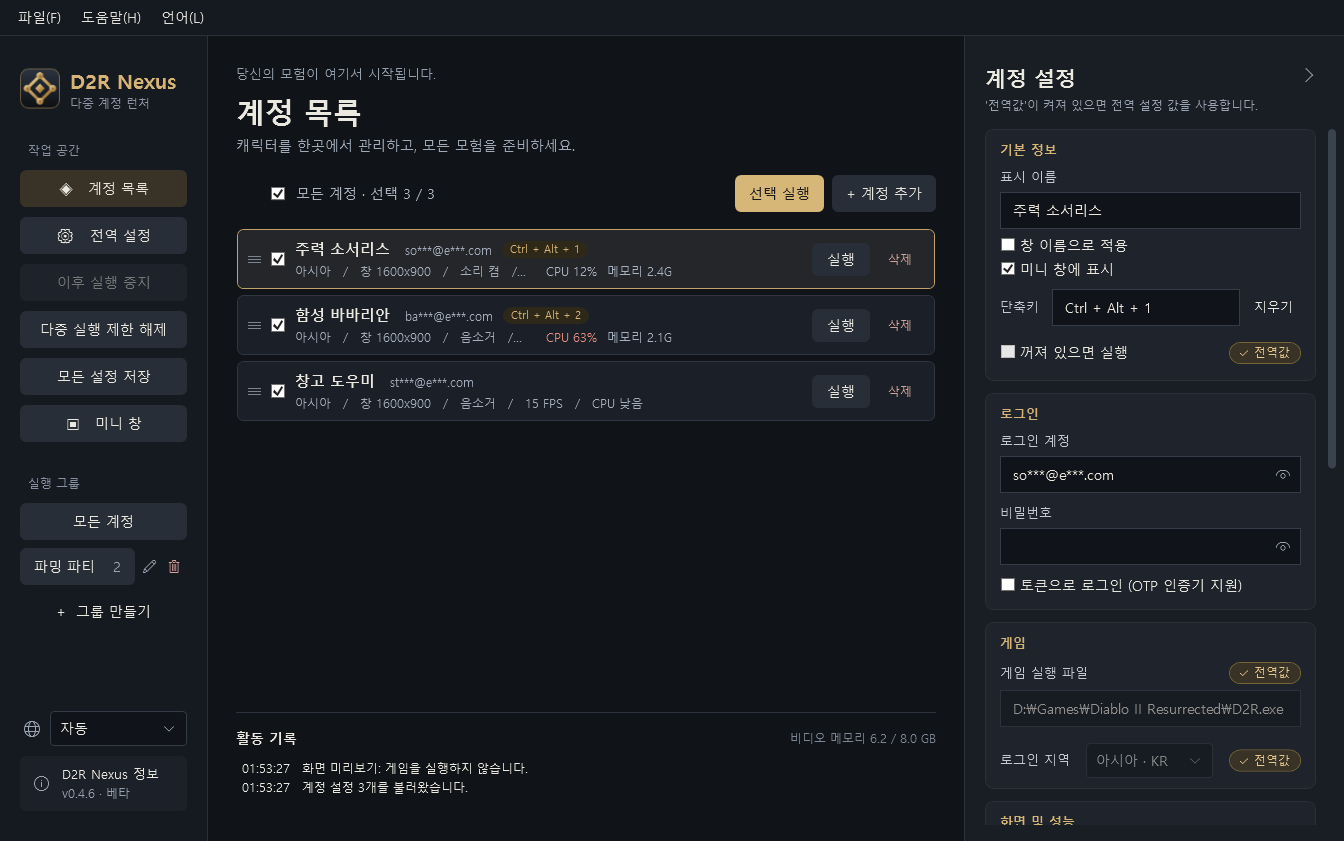
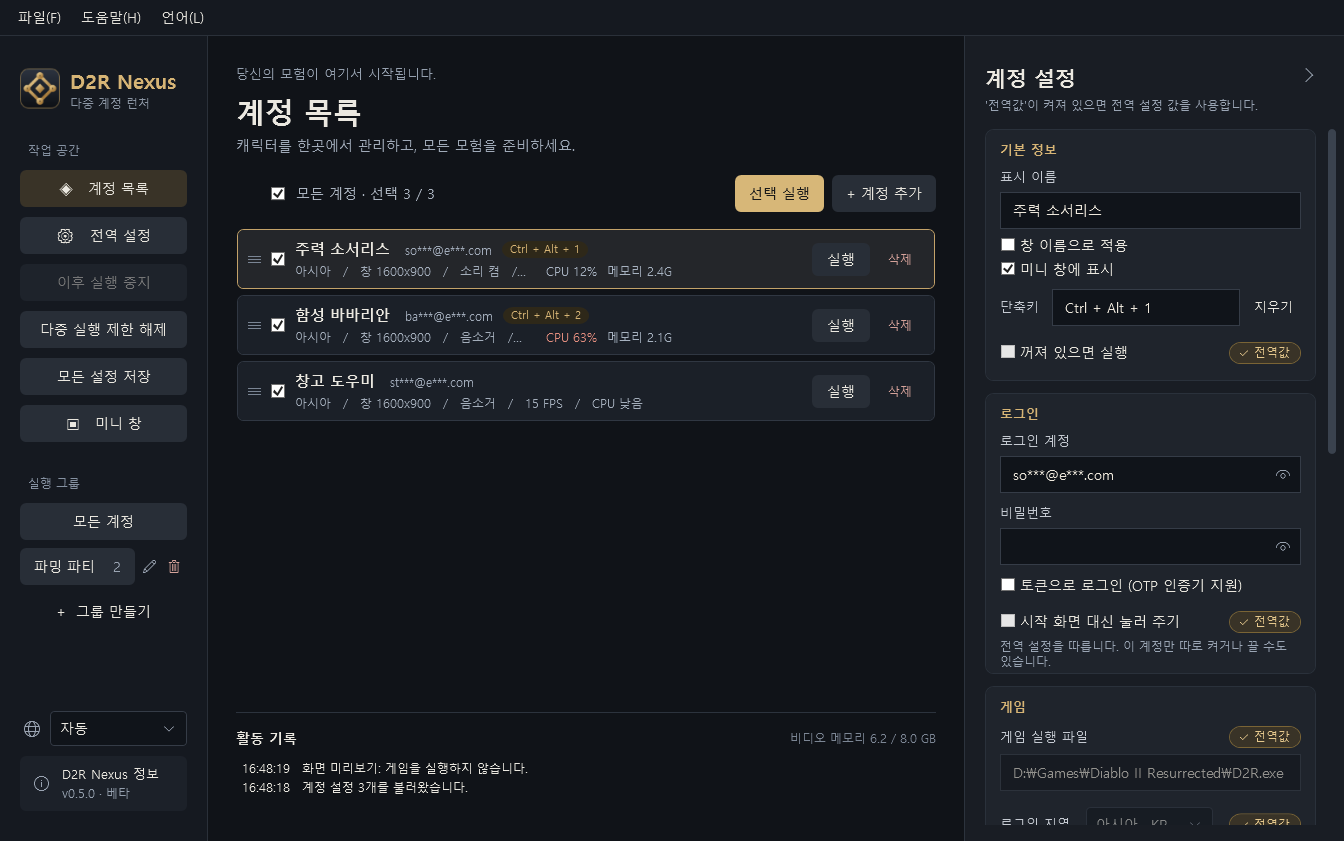
Add files via upload

diff --git a/README.en.md b/README.en.md
@@ -19,6 +19,26 @@ Check the accounts you want to play and click "Launch selected". Nexus opens eac
 
 > Nexus is currently a beta. Some situations are still being tested on real setups.
 
+<h2 align="center">⚠ From v0.5.0, Nexus can send a key press to the game</h2>
+
+<p align="center"><b>Off by default. You have to turn it on yourself, read what it does and agree to it.<br>
+Once it is on, the program is operating the game for you, and the risk to your account is yours.</b></p>
+
+<p align="center"><b>Each account also decides for itself.<br>
+To keep your main account or a mule out of this entirely, leave it off for that account.</b></p>
+
+> [!IMPORTANT]
+> **What changed in v0.5.0: Nexus can now press past the game's title screen for you.**
+>
+> **Up to v0.4.6**, Nexus never sent any key to the game, and said so. **From v0.5.0** there is one feature that does: it presses "Press any key to continue" for you.
+>
+> - The feature is **off by default**. Leave it off and Nexus behaves exactly as it did before, sending no keys at all.
+> - To use it you have to turn it on yourself under "Global settings → Help with signing in". You are first shown what it does, and the agree button only becomes available after a five-second countdown.
+> - Once it is on, the program is operating the game for you. **The risk to your account is yours**, so weigh it before you decide.
+> - **Each account has its own switch too.** To keep your main account or a mule out of it entirely, turn off "Use the global setting" on that account and leave it off. Turning it on for one account asks you again.
+>
+> What it does, how far it goes and when it stops are in the [security notes](SECURITY.en.md).
+
 ## ✨ Features
 
 **Multi-launch and login**
@@ -98,9 +118,13 @@ The accounts whose games are open are moved to the top of the list, so with many
 
 ## 🛡 Not a cheat
 
-Nexus is only a management tool that opens the game for you. **It doesn't inject code, doesn't read or write game memory, doesn't modify game files, doesn't intercept network traffic, doesn't automate the game, doesn't simulate keyboard or mouse input, doesn't bypass verification, and doesn't upload your data.** Every method it uses, the permissions it needs, and everything it connects to are listed in the [security notes](SECURITY.en.md).
+Nexus is only a management tool that opens the game for you. **It doesn't inject code, doesn't read or write game memory, doesn't modify game files, doesn't intercept network traffic, doesn't bot, farm or loot for you, doesn't bypass verification, and doesn't upload your data.** Every method it uses, the permissions it needs, and everything it connects to are listed in the [security notes](SECURITY.en.md).
 
-Whether multi-launching and third-party tools comply with the rules is ultimately determined by Blizzard's terms of use and rulings. Nexus cannot guarantee that your accounts will not be penalized in any way.
+There is one exception, **added in v0.5.0 and off by default**: **pressing past the title screen** (up to v0.4.6 the feature did not exist and Nexus sent no keys at all). A game signed in with a token stops at "Press any key to continue" until someone presses a key. With this turned on, Nexus sends a single space bar to the game window it opened itself, and stops as soon as the sign-in is finished. That is the program operating the game for you, so before it can be turned on you are shown exactly what it does, and the agree button only becomes available after a five-second countdown; the time you agreed and the text you agreed to stay on your own computer and are not uploaded anywhere. With it off, Nexus sends no keys at all, and it never records what you press.
+
+**The switch is also per account.** Even with the global setting on, an individual account can be left off: keep your main account and your mules out of this, and if anything does go wrong, the accounts that never used it are not involved. Turning it on for a single account asks you to agree again.
+
+Whether multi-launching and third-party tools comply with the rules is ultimately determined by Blizzard's terms of use and rulings. Nexus cannot guarantee that your accounts will not be penalized in any way, and turning the key press on means taking that risk on knowingly, so decide for yourself first.
 
 ## ❓ FAQ
 
@@ -150,6 +174,10 @@ In the account settings, next to "Login token", click "Clear" and then "Get toke
 That is how the game behaves: when it starts with a token it waits on its title screen, and it only begins signing in once you **press a key in that window**. Accounts that sign in with an account and password do it by themselves.
 
 With several token accounts this step matters even more: Windows only holds one token at a time, so **the next account can only start after the previous one has signed in**. Until you press that key the accounts behind it keep waiting (the activity log says what they are waiting for and for how long). Press a key in each token account's window as it appears and the rest follow on.
+
+"Help with signing in" in the global settings makes this easier: **bringing a token account's game window to the front** is on by default, so you never have to go looking for the window. If you would rather not press the key at all, the same card has **press past the title screen for me**, and Nexus does it for you. That is the program operating the game, so it is off by default, and before it can be turned on you are shown exactly what it does and asked to agree. Weigh the risk for yourself.
+
+If only some of your accounts use it, Nexus **starts the token accounts without the key press last**, so the others do not sit behind one that is waiting for you; the cost is that such an account opens last. The activity log says so when it happens.
 </details>
 
 <details>

diff --git a/SECURITY.ko.md b/SECURITY.ko.md
@@ -4,6 +4,23 @@
 
 이 페이지에서는 D2R Nexus에 어떤 권한이 필요한지, 어떤 데이터를 다루는지, 어디에 연결하는지, 그리고 백신 프로그램이나 Windows가 경고를 표시할 수 있는 이유를 설명합니다.
 
+<h2 align="center">⚠ v0.5.0부터 Nexus가 게임에 키 입력을 보낼 수 있습니다</h2>
+
+<p align="center"><b>기본값은 꺼짐입니다. 직접 켜고 안내를 읽은 뒤 동의해야 작동합니다.<br>
+켜면 프로그램이 게임을 대신 조작하는 것이며, 계정에 대한 위험은 본인이 감수합니다.</b></p>
+
+<p align="center"><b>계정마다 따로 정할 수도 있습니다.<br>
+주 계정이나 창고 계정을 완전히 제외하려면 그 계정에서 꺼 두세요.</b></p>
+
+> [!IMPORTANT]
+> **v0.5.0의 변경 사항: 이제 Nexus가 게임의 시작 화면을 대신 눌러 줄 수 있습니다.**
+>
+> **v0.4.6까지** Nexus는 게임에 어떤 키도 보내지 않았고, 안내에도 그렇게 적혀 있었습니다. **v0.5.0부터**는 '아무 키나 누르십시오'를 대신 눌러 주는 기능이 하나 생겼습니다.
+>
+> - 이 기능의 **기본값은 꺼짐**입니다. 켜지 않으면 Nexus의 동작은 이전과 완전히 같으며 어떤 키도 보내지 않습니다.
+> - 쓰려면 '전역 설정 → 로그인 도우미'에서 직접 켜야 합니다. 무엇을 하는지 먼저 안내하고, 5초를 센 뒤에야 동의 버튼을 누를 수 있습니다.
+> - 켜면 프로그램이 게임을 대신 조작하는 것이 됩니다. **계정에 대한 위험은 본인이 감수**하므로 충분히 생각한 뒤에 결정하세요.
+
 ## 관리자 권한이 필요한 이유
 
 게임은 실행되면 '이미 하나가 열려 있다'는 시스템 표식을 만들고, 두 번째 게임은 이 표식을 보면 실행되지 않습니다. 이 표식을 닫으려면 관리자 권한이 필요하기 때문에, Nexus는 열릴 때 한 번 권한을 요청합니다.
@@ -27,13 +44,14 @@
 | 새 버전 확인 | 프로그램을 열 때 이 프로젝트 Release의 버전 번호를 읽고, 현재 버전보다 새로우면 알려 줍니다. 자동으로 다운로드하거나 설치하지 않으며, 전역 설정에서 끌 수 있습니다 |
 | OTP 계정 로그인 | Battle.net 공식 로그인 페이지를 열어 로그인 토큰을 받고, Battle.net 런처가 자체적으로 사용하는 Windows 레지스트리 위치에 기록합니다. 게임이 읽고 나면 자동으로 비워집니다 |
 | 직접 실행한 게임 알아보기 | 프로세스 번호, 실행 시각, 실행 파일 경로를 기억해 같은 계정이 중복으로 실행되지 않게 합니다 |
+| 시작 화면 대신 눌러 주기(기본값 꺼짐) | 사용자가 직접 켜고 동의한 뒤에만, Nexus가 실행한 그 게임 창에 스페이스바 하나를 보내 게임의 '아무 키나 누르십시오'를 대신 눌러 줍니다. 그 창에만, 로그인이 끝나기 전까지만 보내며, 로그인이 끝나거나 창이 닫히면 멈춥니다. 컴퓨터 전체에 키보드를 흉내 내는 것이 아니라 그 창 하나에 보내는 Windows 메시지이므로 다른 프로그램은 받지 않습니다. 동의한 시각과 그때의 안내문은 사용자의 컴퓨터에 남습니다. 계정마다 별도의 스위치도 있어 특정 계정을 완전히 제외할 수 있습니다 |
 
 ## 하지 않는 일
 
 - 어떤 프로그램(예: DLL)도 게임에 주입하지 않으며, 게임의 프로그램 파일을 수정하지 않습니다.
 - 게임 메모리를 읽거나 수정하지 않습니다.
 - 게임의 네트워크 통신을 가로채거나 수정하지 않습니다.
-- 게임을 자동으로 조작하지 않습니다. 무인 플레이(봇), 자동 사냥, 자동 아이템 줍기, 매크로 기능이 없으며, 키보드와 마우스 입력을 흉내 내지도 않습니다.
+- 게임을 자동으로 조작하지 않습니다. 무인 플레이(봇), 자동 사냥, 자동 아이템 줍기, 매크로 기능이 없습니다. **유일한 예외**는 위 표의 마지막 항목인 '시작 화면 대신 눌러 주기'로, 기본값은 꺼짐이며 사용자가 직접 켜고 동의해야만 그 키 하나를 보냅니다.
 - Battle.net의 로봇 방지 인증이나 휴대폰 인증을 우회하지 않습니다.
 - 키보드 입력을 기록하지 않습니다. 단축키는 Windows에 키 조합을 등록하는 방식이며 키보드 후킹이 아니므로, Nexus는 다른 키 입력을 받을 수 없습니다.
 - 계정 정보를 수집하지 않으며, 어떤 서버에도 업로드하지 않습니다.

diff --git a/SECURITY.en.md b/SECURITY.en.md
@@ -4,6 +4,23 @@
 
 This page explains what permissions D2R Nexus needs, what data it touches, where it connects, and why antivirus software or Windows may show a warning.
 
+<h2 align="center">⚠ From v0.5.0, Nexus can send a key press to the game</h2>
+
+<p align="center"><b>Off by default. You have to turn it on yourself, read what it does and agree to it.<br>
+Once it is on, the program is operating the game for you, and the risk to your account is yours.</b></p>
+
+<p align="center"><b>Each account also decides for itself.<br>
+To keep your main account or a mule out of this entirely, leave it off for that account.</b></p>
+
+> [!IMPORTANT]
+> **What changed in v0.5.0: Nexus can now press past the game's title screen for you.**
+>
+> **Up to v0.4.6**, Nexus never sent any key to the game, and said so. **From v0.5.0** there is one feature that does: it presses "Press any key to continue" for you.
+>
+> - The feature is **off by default**. Leave it off and Nexus behaves exactly as it did before, sending no keys at all.
+> - To use it you have to turn it on yourself under "Global settings → Help with signing in". You are first shown what it does, and the agree button only becomes available after a five-second countdown.
+> - Once it is on, the program is operating the game for you. **The risk to your account is yours**, so weigh it before you decide.
+
 ## Why it needs administrator permission
 
 When the game starts, it creates a system marker that says "one is already open", and a second game that sees it won't start. Closing this marker requires administrator permission, so Nexus asks once when it opens.
@@ -27,13 +44,14 @@ When the game starts, it creates a system marker that says "one is already open"
 | Check for new versions | At startup, reads the version number from this project's Releases and lets you know if it's newer than the current one. It never downloads or installs anything automatically, and can be turned off in Global settings |
 | OTP account login | Opens the official Battle.net login page to get a login token, and writes it to the Windows registry location that the Battle.net launcher itself uses; the game clears it automatically after reading it |
 | Recognize the games it opened | Remembers the process ID, start time, and executable path, so the same account isn't opened twice |
+| Press past the title screen (off by default) | After you have turned it on and agreed, sends a single space bar to the game window Nexus opened, getting past the game's own "Press any key to continue". Only to that window, only before the sign-in finishes, and it stops when the sign-in is done or the window closes. It is a Windows message to that one window, not simulated keyboard input to the whole machine, so no other program receives it. The time you agreed and the text you agreed to are kept on your own computer. Each account has its own switch as well, so an account can be kept out of it entirely |
 
 ## What it doesn't do
 
 - It doesn't inject any code (such as a DLL) into the game, and doesn't modify the game's program files.
 - It doesn't read or modify the game's memory.
 - It doesn't intercept or modify the game's network traffic.
-- It doesn't automate the game: no AFK botting, auto-fighting, auto-looting, or macros, and it doesn't simulate keyboard or mouse input.
+- It doesn't automate the game: no AFK botting, auto-fighting, auto-looting, or macros. **The one exception** is the last row of the table above, pressing past the title screen: it is off by default, and it sends that single key only after you turn it on and agree.
 - It doesn't bypass Battle.net's human verification (such as CAPTCHAs) or phone verification.
 - It doesn't log keystrokes. Hotkeys are key combinations registered with Windows, not a keyboard hook, so Nexus can't receive any other keys.
 - It doesn't collect your account data or upload it to any server.

diff --git a/SECURITY.zh-CN.md b/SECURITY.zh-CN.md
@@ -4,6 +4,23 @@
 
 本页说明 D2R Nexus 需要哪些权限、会接触哪些数据、会连接到哪里，以及为什么杀毒软件或 Windows 可能弹出警告。
 
+<h2 align="center">⚠ v0.5.0 起，Nexus 会替你按下游戏里的按键</h2>
+
+<p align="center"><b>默认关闭。要你自己开启、看完说明并按下同意才会生效。<br>
+开启之后等于由程序替你操作游戏，账号风险由你自己承担。</b></p>
+
+<p align="center"><b>每个账号还可以各自决定要不要用。<br>
+想让主账号或仓库号完全不碰这个功能，就让那个账号保持关闭。</b></p>
+
+> [!IMPORTANT]
+> **v0.5.0 的改变：Nexus 现在可以替你按下游戏的开场画面。**
+>
+> **v0.4.6 以前**，Nexus 不会对游戏送出任何按键，这一点写在说明里。**v0.5.0 开始**多了“自动按掉开场画面”，会替你按下“按任意键即可开始”。
+>
+> - 这个功能**默认是关闭的**。不开启的话，Nexus 的行为和以前完全一样，一个按键都不会送出。
+> - 要用的话得自己到“全局设置 → 登录协助”开启，程序会先把做了什么说清楚，倒数五秒后你按下同意才会生效。
+> - 开启之后，等于由程序替你操作游戏。**账号风险由你自己承担**，请先衡量再决定。
+
 ## 需要管理员权限的原因
 
 游戏启动后会创建一个“已经打开了一个”的系统标记，第二个游戏看到它就不会启动。要关闭这个标记需要管理员权限，所以 Nexus 打开时会请求一次。
@@ -27,13 +44,14 @@
 | 检查新版本 | 打开时读取本项目 Release 的版本号，比当前版本新就提示。不会自动下载或安装，可在全局设置里关闭 |
 | OTP 账号登录 | 打开 Battle.net 官方登录页获取登录 Token，写到 Battle.net 启动器本身使用的 Windows 注册表位置；游戏读取后会自动清空 |
 | 识别自己打开的游戏 | 记住进程 ID、启动时间与可执行文件路径，避免同一个账号被重复启动 |
+| 自动按掉开场画面（默认关闭） | 你自己开启并按下同意之后，对 Nexus 启动的那个游戏窗口送出一个空格键，按掉游戏本身的“按任意键即可开始”。只送给那个窗口，只在登录完成前，登录完成或窗口关掉就停。用的是送给那一个窗口的 Windows 消息，不是对整台电脑模拟键盘，其他程序收不到。同意的时间与当时的内容留在你自己的电脑上。每个账号也有自己的开关，可以让某些账号完全不使用 |
 
 ## 不会做的事
 
 - 不向游戏注入任何程序（例如 DLL），也不修改游戏的程序文件。
 - 不读取或修改游戏的内存。
 - 不拦截或修改游戏的网络连接。
-- 不自动操作游戏：没有挂机、自动打怪、自动捡物、宏，也不模拟键盘鼠标。
+- 不自动操作游戏：没有挂机、自动打怪、自动捡物、宏。**唯一的例外**是上表最后一项“自动按掉开场画面”，默认关闭，要你自己开启并按下同意，才会送出那一个按键。
 - 不绕过 Battle.net 的人机验证或手机验证。
 - 不记录键盘输入。快捷键是向 Windows 注册组合键，不是键盘钩子，Nexus 收不到其他按键。
 - 不收集你的账号数据，也不上传到任何服务器。

diff --git a/SECURITY.md b/SECURITY.md
@@ -4,6 +4,23 @@
 
 這一頁說明 D2R Nexus 需要哪些權限、碰到哪些資料、會連到哪裡，以及為什麼防毒軟體或 Windows 可能跳出警告。
 
+<h2 align="center">⚠ v0.5.0 起，Nexus 會替你按下遊戲裡的按鍵</h2>
+
+<p align="center"><b>預設關閉。要你自己開啟、看完說明並按下同意才會生效。<br>
+開啟之後等於由程式替你操作遊戲，帳號風險由你自己承擔。</b></p>
+
+<p align="center"><b>每個帳號還可以各自決定要不要用。<br>
+想讓主帳號或倉庫號完全不碰這個功能，就讓那個帳號保持關閉。</b></p>
+
+> [!IMPORTANT]
+> **v0.5.0 的改變：Nexus 現在可以替你按下遊戲的開場畫面。**
+>
+> **v0.4.6 以前**，Nexus 不會對遊戲送出任何按鍵，這一點寫在說明裡。**v0.5.0 開始**多了「自動按掉開場畫面」，會替你按下「按任意鍵即可開始」。
+>
+> - 這個功能**預設是關閉的**。不開啟的話，Nexus 的行為和以前完全一樣，一個按鍵都不會送出。
+> - 要用的話得自己到「全域設定 → 登入協助」開啟，程式會先把做了什麼說清楚，倒數五秒後你按下同意才會生效。
+> - 開啟之後，等於由程式替你操作遊戲。**帳號風險由你自己承擔**，請先衡量再決定。
+
 ## 需要管理員權限的原因
 
 遊戲啟動後會建立一個「已經開過一個」的系統標記，第二個遊戲看到它就不會啟動。要關掉這個標記需要管理員權限，所以 Nexus 開啟時會詢問一次。
@@ -27,13 +44,14 @@
 | 檢查新版本 | 開啟時讀取本專案 Release 的版本號，比目前版本新就提示。不會自動下載或安裝，可在全域設定關閉 |
 | OTP 帳號登入 | 開啟 Battle.net 官方登入頁取得登入 Token，寫到 Battle.net 啟動器本身使用的 Windows 登錄位置；遊戲讀取後會自動清空 |
 | 認出自己開的遊戲 | 記住程序編號、啟動時間與執行檔路徑，避免同一個帳號被重複開啟 |
+| 自動按掉開場畫面（預設關閉） | 你自己開啟並按下同意之後，對 Nexus 啟動的那個遊戲視窗送出一個空白鍵，按掉遊戲本身的「按任意鍵即可開始」。只送給那個視窗，只在登入完成前，登入完成或視窗關掉就停。用的是送給那一個視窗的 Windows 訊息，不是對整台電腦模擬鍵盤，其他程式收不到。同意的時間與當時的內容留在你自己的電腦上。每個帳號也有自己的開關，可以讓某些帳號完全不使用 |
 
 ## 不會做的事
 
 - 不注入任何程式（例如 DLL）到遊戲裡，也不修改遊戲的程式檔案。
 - 不讀取或修改遊戲的記憶體。
 - 不攔截或修改遊戲的網路連線。
-- 不自動操作遊戲：沒有掛機、自動打怪、自動撿物、巨集，也不模擬鍵盤滑鼠。
+- 不自動操作遊戲：沒有掛機、自動打怪、自動撿物、巨集。**唯一的例外**是上表最後一項「自動按掉開場畫面」，預設關閉，要你自己開啟並按下同意，才會送出那一個按鍵。
 - 不繞過 Battle.net 的人機驗證或手機驗證。
 - 不記錄鍵盤輸入。快捷鍵是向 Windows 註冊組合鍵，不是鍵盤掛鉤，Nexus 收不到其他按鍵。
 - 不收集你的帳號資料，也不上傳到任何伺服器。

diff --git a/CHANGELOG.ko.md b/CHANGELOG.ko.md
@@ -4,6 +4,18 @@
 
 최신 버전이 맨 위에 있습니다. 다운로드는 [Releases](https://github.com/MoroseDog/D2RNexus/releases)에서 하세요.
 
+## v0.5.0 (2026-10-02)
+
+**추가**
+
+- **시작 화면 대신 눌러 주기(기본값 꺼짐, 동의 필요).** 토큰으로 로그인한 게임은 '아무 키나 누르십시오'에서 누군가 키를 누를 때까지 멈춰 있어, 계정이 많으면 하나씩 눌러 줘야 했습니다. 이 기능을 켜면 Nexus가 스페이스바 하나를 대신 보내므로 로그인이 더 빨리 끝나고 다음 계정도 더 빨리 시작됩니다. 프로그램이 게임을 대신 조작하는 것이므로 켜기 전에 안내 창이 뜨고 5초를 센 뒤에야 동의 버튼을 누를 수 있으며, 동의한 시각과 그때의 안내문은 사용자 컴퓨터에 남습니다. 켜지 않으면 어떤 키도 보내지 않습니다. 키는 Nexus가 직접 실행한 게임 창에만 전송되며, 로그인이 끝나거나 창이 닫히면 멈춥니다. 비밀번호로 로그인하는 계정에도 적용됩니다.
+- **계정마다 따로 정할 수 있습니다.** 기본적으로는 전역 설정을 따르지만, 일부 계정에서만 켜거나 주 계정과 창고 계정을 완전히 제외할 수 있습니다. 문제가 생기더라도 사용하지 않은 계정은 함께 엮이지 않습니다. 한 계정만 켤 때도 같은 동의 창이 먼저 표시됩니다. 일부 계정만 사용할 때는 자동 키 입력이 꺼진 토큰 계정을 마지막에 실행하여, 나머지 계정이 사람을 기다리는 계정 뒤에서 멈추지 않도록 합니다.
+- **토큰 계정의 게임 창이 나타나면 맨 앞으로 가져옵니다**(기본값 켜짐). 자동 키 입력을 켜고 싶지 않더라도 그 창을 직접 찾을 필요가 없으며, 키를 누르는 즉시 다음 계정이 시작됩니다. 이 옵션은 창을 전환할 뿐 게임에 아무것도 보내지 않습니다.
+
+**안내**
+
+- '핵이 아닙니다'와 보안 안내를 함께 고쳐 썼습니다. 자동 키 입력은 Nexus가 게임에 무언가를 보내는 유일한 기능이며, 기본값이 꺼짐이고 동의가 필요하며 Nexus가 직접 실행한 창에만 보내고 로그인이 끝나면 멈춘다는 점을 분명히 적었습니다.
+
 ## v0.4.6 (2026-09-30)
 
 **추가**

diff --git a/CHANGELOG.en.md b/CHANGELOG.en.md
@@ -4,6 +4,18 @@
 
 The newest version is at the top. Download from [Releases](https://github.com/MoroseDog/D2RNexus/releases).
 
+## v0.5.0 (2026-10-02)
+
+**Added**
+
+- **Pressing past the title screen for you (off by default, your agreement needed).** A game signed in with a token stops at "Press any key to continue" until someone presses a key, which with many accounts means clicking through them one by one. With this on, Nexus sends a single space bar for you, so the sign-in finishes sooner and the next account starts sooner. That is the program operating the game for you, so you are first shown what it does and the agree button only becomes available after a five-second countdown; the time you agreed and the text you agreed to stay on your own computer. With it off, no key is ever sent. The key goes only to the game window Nexus opened itself, and stops when the sign-in finishes or the window closes. Accounts that sign in with a password are covered too.
+- **Each account can decide for itself.** By default an account follows the global setting, but you can turn it on for a few accounts only, or keep your main account and mules out of it completely, so that if anything does go wrong the accounts that never used it are not involved. Turning it on for one account shows the same agreement first. When only some accounts use it, the token accounts without the key press start last, so the others do not sit behind one that is waiting for you.
+- **A token account's game window is brought to the front when it appears** (on by default). If you would rather not turn the key press on, at least you no longer have to go looking for that window, and the next account can start as soon as you have pressed the key. This option only switches windows; it sends nothing to the game.
+
+**Notes**
+
+- "Not a cheat" and the security notes were rewritten together: the key press is the one thing Nexus ever sends to the game, and it is now spelled out that it is off by default, needs your agreement, goes only to the window Nexus opened, and stops once the sign-in is done.
+
 ## v0.4.6 (2026-09-30)
 
 **Added**

diff --git a/CHANGELOG.zh-CN.md b/CHANGELOG.zh-CN.md
@@ -4,6 +4,18 @@
 
 最新的版本在最上面。下载请到 [Releases](https://github.com/MoroseDog/D2RNexus/releases)。
 
+## v0.5.0（2026-10-02）
+
+**新增**
+
+- **自动按掉开场画面（默认关闭，需要你同意）**：用 Token 登录的游戏会停在“按任意键即可开始”等人按一下，多开的时候得一个一个去按。开启之后由 Nexus 送出一个空格键替你按掉，登录提早完成，下一个账号也提早开始。这是程序替你操作游戏，所以开启前会先弹出说明窗口、倒数五秒才能按同意，同意的时间与当时的内容会留在你自己的电脑上；不开启就一个按键都不会送出。按键只送给 Nexus 自己启动的那个游戏窗口，登录完成或窗口关掉就停。账号密码登录的账号也适用。
+- **每个账号可以单独决定**：默认沿用全局设置，也可以只为某几个账号开启，或让主账号、仓库号完全不用。真的出事时，没开的账号不会跟着一起。账号单独开启时一样会弹出同意窗口。 只让部分账号使用时，没开的 Token 账号会排到最后才启动，其他账号才不会卡在它后面等你去按。
+- **Token 账号的游戏窗口出现时叫到最前面**（默认开启）：不开自动按键的话，至少不用自己去找那个窗口，按完一键下一个账号就能开始。这个选项只是切换窗口，不会送出任何按键。
+
+**说明**
+
+- “不是外挂”与安全说明一起改写：自动按键是 Nexus 唯一会对游戏送出操作的功能，写清楚它默认关闭、要你同意、只对 Nexus 自己启动的窗口、登录完成就停。
+
 ## v0.4.6（2026-09-30）
 
 **新增**

diff --git a/CHANGELOG.md b/CHANGELOG.md
@@ -4,6 +4,18 @@
 
 最新的版本在最上面。下載請到 [Releases](https://github.com/MoroseDog/D2RNexus/releases)。
 
+## v0.5.0（2026-10-02）
+
+**新增**
+
+- **自動按掉開場畫面（預設關閉，需要你同意）**：用 Token 登入的遊戲會停在「按任意鍵即可開始」等人按一下，多開的時候得一個一個去按。開啟之後由 Nexus 送出一個空白鍵替你按掉，登入提早完成，下一個帳號也提早開始。這是程式替你操作遊戲，所以開啟前會先跳出說明視窗、倒數五秒才能按同意，同意的時間與當時的內容會留在你自己的電腦上；不開啟就一個按鍵都不會送出。按鍵只送給 Nexus 自己啟動的那個遊戲視窗，登入完成或視窗關掉就停。帳密帳號也適用。
+- **每個帳號可以單獨決定**：預設沿用全域設定，也可以只為某幾個帳號開啟，或讓主帳號、倉庫號完全不用。真的出事時，沒開的帳號不會跟著一起。帳號單獨開啟時一樣會跳出同意視窗。 只讓部分帳號使用時，沒開的 Token 帳號會排到最後才啟動，其他帳號才不會卡在它後面等你去按。
+- **Token 帳號的遊戲視窗出現時叫到最前面**（預設開啟）：不開自動按鍵的話，至少不用自己去找那個視窗，按完一鍵下一個帳號就能開始。這個選項只是切換視窗，不會送出任何按鍵。
+
+**說明**
+
+- 「不是外掛」與安全性說明一起改寫：自動按鍵是 Nexus 唯一會對遊戲送出操作的功能，寫清楚它預設關閉、要你同意、只對 Nexus 自己啟動的視窗、登入完成就停。
+
 ## v0.4.6（2026-09-30）
 
 **新增**
